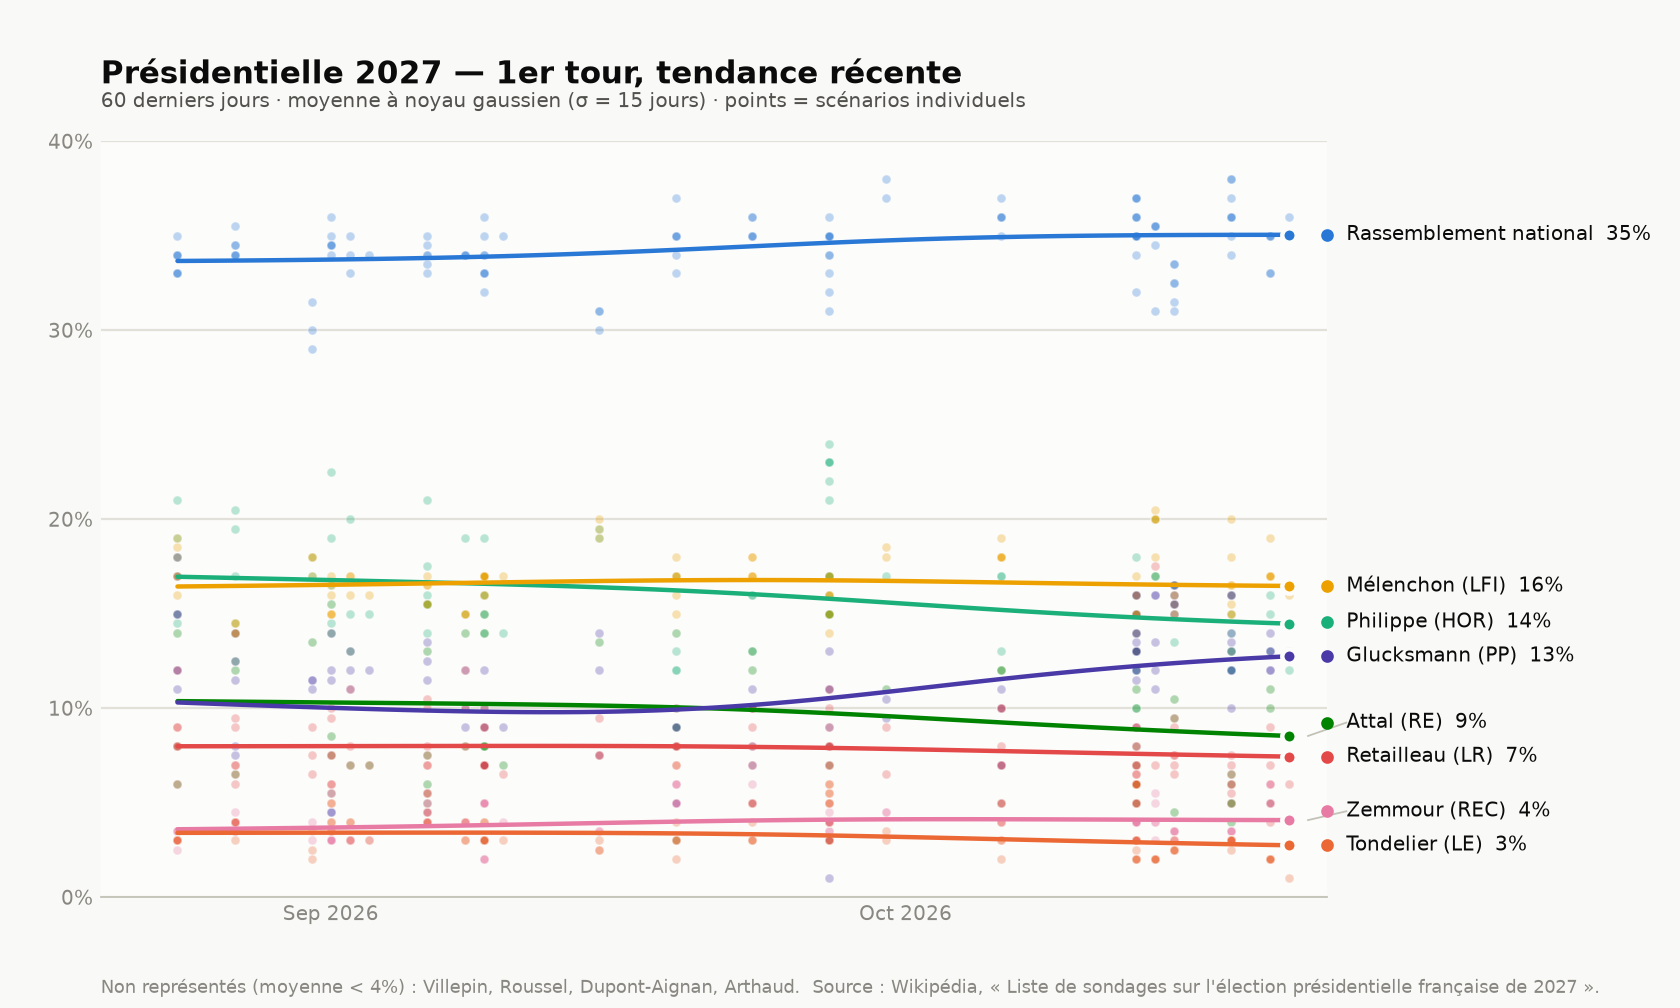
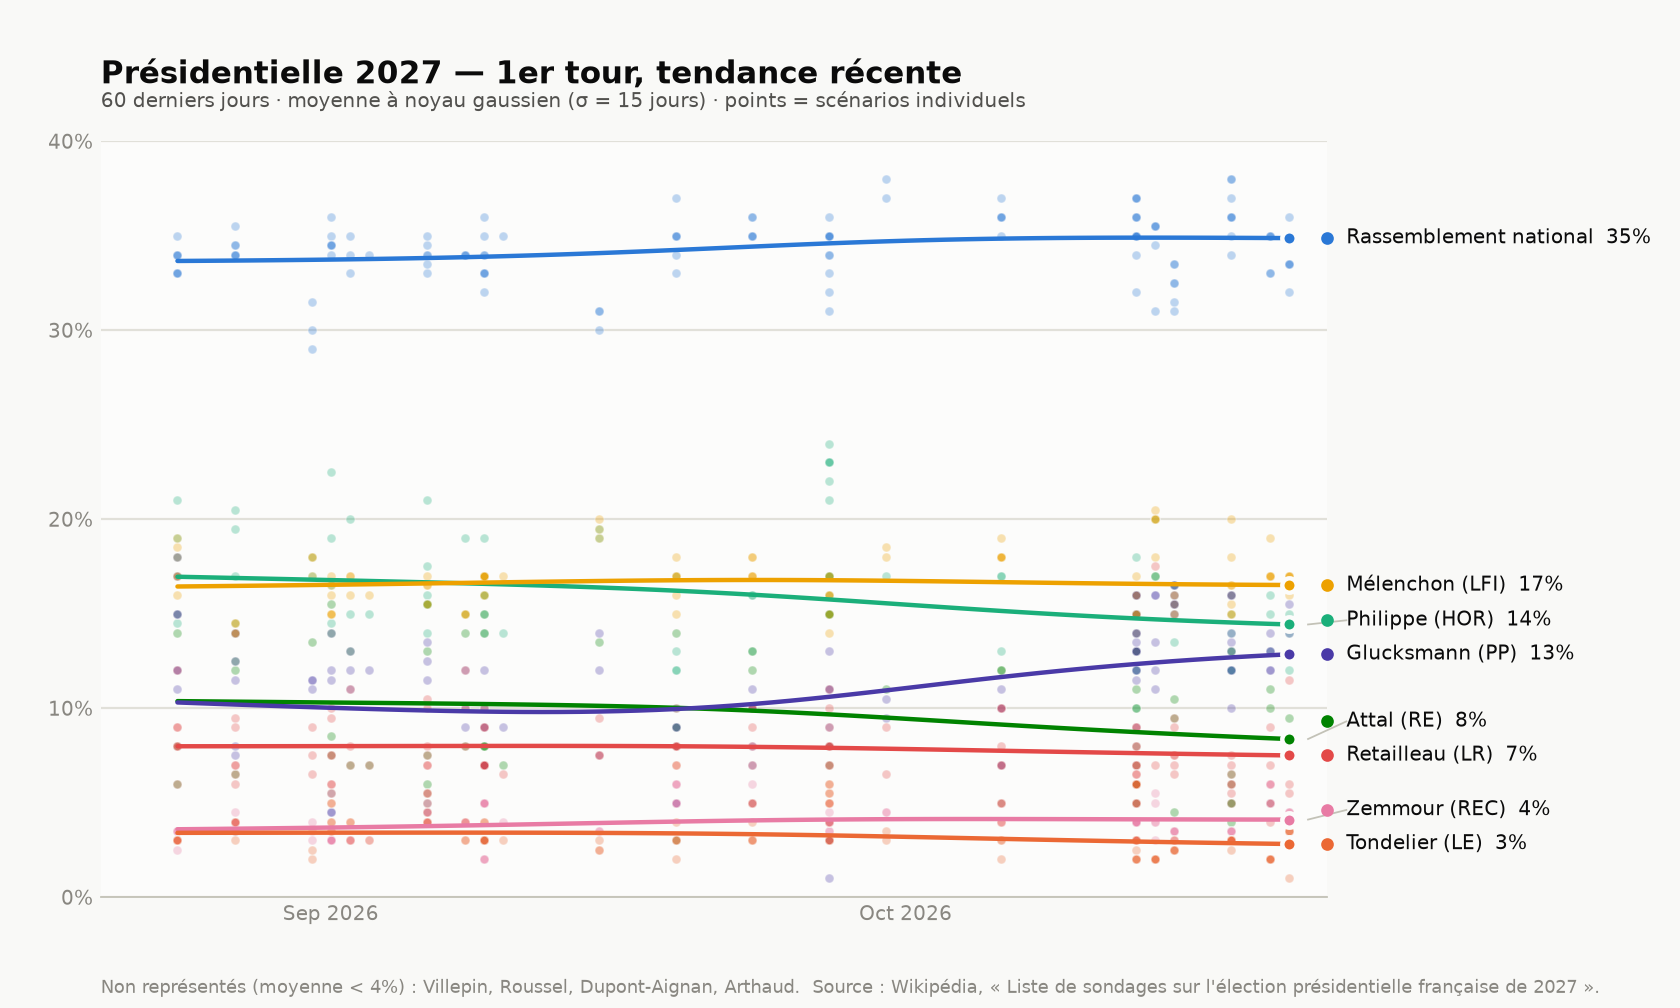
Add Ipsos 21-22 October 2026 poll (n=1500)
Four scenarios covering RN (Le Pen), Melenchon, Glucksmann, Attal,
Philippe, Retailleau, Lisnard, DupontAignan, Zemmour, Roussel,
Tondelier and Arthaud; no substitutions or notes. Regenerate the
first-round charts. Second-round data unchanged (set comparison
matched exactly).

diff --git a/README.md b/README.md
@@ -61,7 +61,7 @@ python3 parse_polls.py /tmp/frelec_raw.wiki polls_2027_second_round.csv --second
 First-round voting-intention polls, January–October 2026, scraped from the French
 Wikipedia article
 ["Liste de sondages sur l'élection présidentielle française de 2027"](https://fr.wikipedia.org/wiki/Liste_de_sondages_sur_l%27%C3%A9lection_pr%C3%A9sidentielle_fran%C3%A7aise_de_2027)
-(pulled 2026-10-24).
+(pulled 2026-10-25).
 
 David Lisnard (Nouvelle Énergie) gained their own column starting with the
 17–19 October 2026 Ifop poll's sub-table ("Octobre-décembre 2026"). Earlier
@@ -106,7 +106,10 @@ Lecornu, etc.). A share Wikipedia reports only as an upper bound (e.g. `<1`)
 is encoded as the midpoint of that bound (`0.5`), with the original reading
 kept in `notes`.
 
-Latest polls: OpinionWay (n=973, 21–22 October, one scenario) — RN (Le Pen)
+Latest polls: Ipsos (n=1500, 21–22 October, four scenarios) — RN (Le Pen)
+32–33.5%, Mélenchon 17%, Glucksmann 13–15.5%, Philippe 13–15% (three
+scenarios), Attal 4–9.5% (two scenarios), Retailleau 5.5–11.5%, Lisnard 6.5%
+(one scenario); OpinionWay (n=973, 21–22 October, one scenario) — RN (Le Pen)
 36%, Mélenchon 16%, Glucksmann 13%, Philippe 12%, Retailleau 6%, Lisnard 6%,
 Attal 4%; Harris (n=2094, 19–21 October) — RN (Le Pen) 33–35%, Mélenchon
 17–19%, Glucksmann 12–14%, Philippe 13–16% (three scenarios), Attal 5–11%,
@@ -136,7 +139,7 @@ included in this CSV — ask if you want those pulled too.
 
 Second-round (runoff) hypothetical match-up polls, January 2024 – October 2026,
 scraped from the same Wikipedia page's "Sondages concernant le second tour"
-section (pulled 2026-10-24). Each subsection there ("Hypothèse X – Y") polls
+section (pulled 2026-10-25). Each subsection there ("Hypothèse X – Y") polls
 one specific pairing — Attal, Mélenchon, Philippe, Glucksmann and Retailleau
 each against the RN candidate (Bardella through early 2026, Le Pen from her
 2026-07-07 candidacy onward), and, from Ifop's 24–25 August 2026 poll, a first
